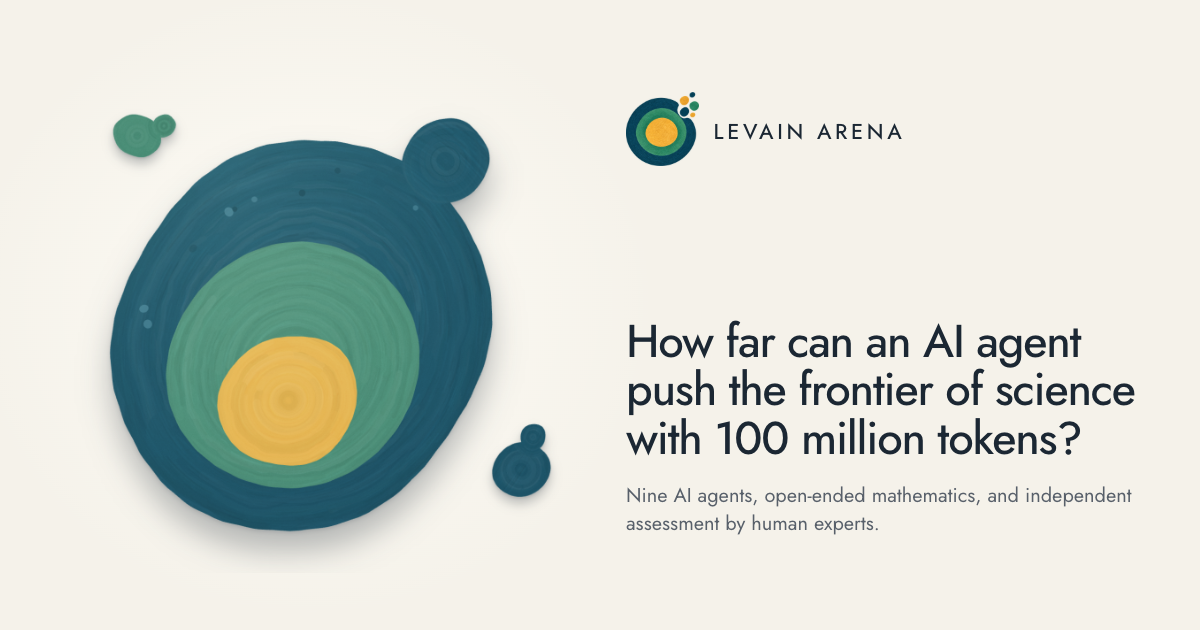
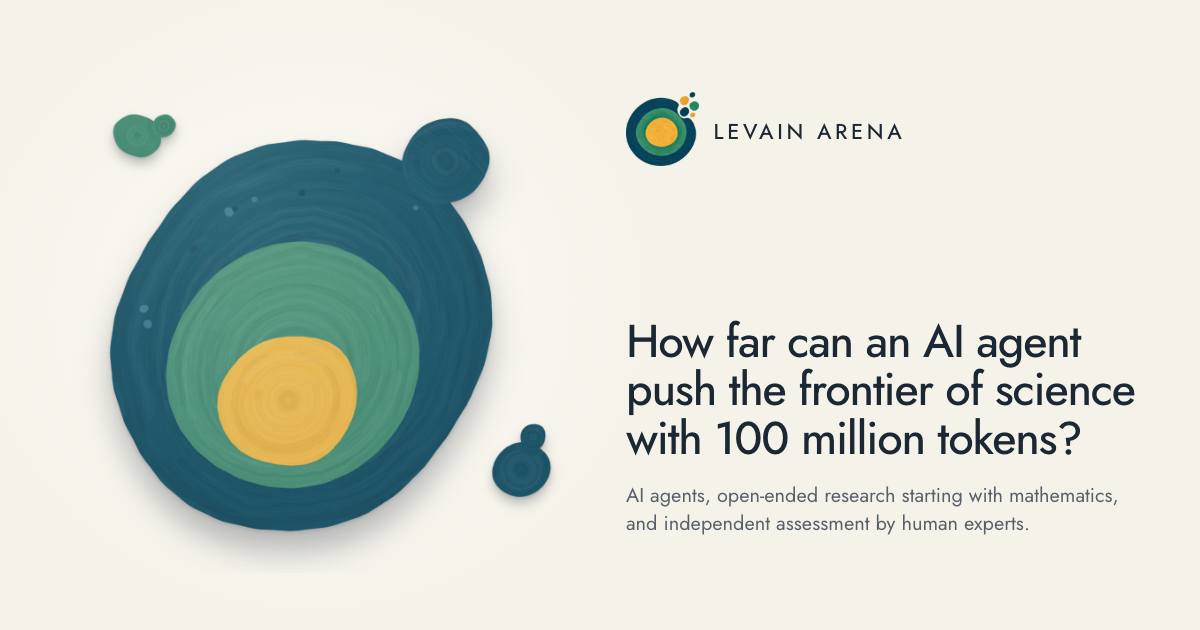
Present mathematics as the first domain of Levain Arena
The arena is framed for any field: the hero, the research question and the arena design no
longer tie it to mathematics, and a new Domains section shows mathematics as the first,
painted-in domain with the next ones drawn in pencil ("Next domain"). The mathematics domain
opens with its own heading before the agents, evaluation, paper and co-author invitation. The
number of agents is no longer stated anywhere, since it will change. New FAQ entry; the share
image and page descriptions follow.

Changed region(s): [[0.5242, 0.754, 0.9558, 0.8444]]

diff --git a/index.html b/index.html
@@ -4,7 +4,7 @@
 <meta charset="utf-8">
 <meta name="viewport" content="width=device-width, initial-scale=1">
 <title>Levain Arena</title>
-<meta name="description" content="Levain Arena gives nine AI agents the freedom to conduct open-ended mathematical research, each under the same fixed budget of 100 million tokens.">
+<meta name="description" content="Levain Arena gives AI agents the freedom to conduct open-ended research, each under the same fixed budget of 100 million tokens. The first domain is mathematics.">
 <meta name="theme-color" content="#F5F2EA">
 <link rel="icon" href="assets/favicon-32.png" sizes="32x32" type="image/png">
 <link rel="icon" href="assets/favicon-64.png" sizes="64x64" type="image/png">
@@ -12,7 +12,7 @@
 <meta property="og:type" content="website">
 <meta property="og:site_name" content="Levain Arena">
 <meta property="og:title" content="Levain Arena: How far can an AI agent push the frontier of science with 100 million tokens?">
-<meta property="og:description" content="Nine AI agents conduct open-ended mathematical research under the same budget of 100 million tokens. Each report is assessed independently by several subject-matter experts.">
+<meta property="og:description" content="AI agents conduct open-ended research under the same budget of 100 million tokens, starting with mathematics. Each report is assessed independently by several subject-matter experts.">
 <meta property="og:url" content="https://levainarena.org/">
 <meta property="og:image" content="https://levainarena.org/assets/og-image.png">
 <meta property="og:image:width" content="1200">
@@ -39,6 +39,7 @@
       <ul>
         <li><a href="#question">Research question</a></li>
         <li><a href="#design">Arena design</a></li>
+        <li><a href="#domains">Domains</a></li>
         <li><a href="#agents">Agents</a></li>
         <li><a href="#evaluation">Evaluation</a></li>
         <li><a href="#paper">Paper</a></li>
@@ -55,7 +56,7 @@
     <div class="wrap hero-grid">
       <div class="hero-copy">
         <h1 id="hero-title" class="rise">How far can an AI agent push the frontier of science with 100&nbsp;million tokens?</h1>
-        <p class="lede rise">Levain Arena gives nine AI agents the freedom to conduct open-ended mathematical research, each under the same fixed budget of 100 million tokens, all running in the <a class="harness-link" href="#harness">Levain Harness</a>.</p>
+        <p class="lede rise">Levain Arena gives AI agents the freedom to conduct open-ended research, each under the same fixed budget of 100 million tokens, all running in the <a class="harness-link" href="#harness">Levain Harness</a>. The first domain is <a class="harness-link" href="#mathematics">mathematics</a>.</p>
         <p class="support rise">We study what they discover, how they reason, where they fail, and how AI-generated research can be rigorously validated by human experts.</p>
         <div class="actions rise">
           <a class="btn" href="#join">Join as a co-author</a>
@@ -75,7 +76,7 @@
               <span class="label-name">Levain Arena</span>
               <span class="label-count"></span>
             </div>
-            <p class="label-title"><span class="hl">Nine AI agents, each with 100 million tokens</span></p>
+            <p class="label-title"><span class="hl">AI agents, each with 100 million tokens</span></p>
           </div>
           <div class="swatches" role="group" aria-label="Show one agent in the painting"></div>
           <p class="label-key">Gold is the budget of 100 million tokens. Navy is human expert validation, which encloses everything an agent produces. Both are the same for every agent; the colour between them is each agent’s own research.</p>
@@ -84,9 +85,9 @@
     </div>
     <div class="wrap">
       <ul class="metrics rise">
-        <li><strong>9</strong><span>AI agents</span></li>
         <li><strong>100M</strong><span>Tokens per agent</span></li>
-        <li><strong>Open-ended</strong><span>Mathematical research</span></li>
+        <li><strong>Open-ended</strong><span>Research</span></li>
+        <li><strong>Mathematics</strong><span>First domain</span></li>
         <li><strong>Expert-assessed</strong><span>Several experts per report</span></li>
       </ul>
     </div>
@@ -98,17 +99,17 @@
       <div class="sec-head reveal"><h2 id="question-title">Research question</h2></div>
       <div class="sec-body prose">
         <p class="reveal">Modern AI systems are usually evaluated on predefined problems with known answers. Scientific research is different. The problem itself may be unclear, the relevant direction must be chosen, and a useful result may emerge only after extended exploration.</p>
-        <p class="reveal">Levain Arena studies what happens when AI agents are given substantial freedom to conduct mathematical research while operating under an identical fixed budget.</p>
+        <p class="reveal">Levain Arena studies what happens when AI agents are given substantial freedom to conduct research, starting with mathematics, while operating under an identical fixed budget.</p>
         <div class="question reveal">
           <span class="glyph" aria-hidden="true"><i></i><i></i></span>
-          <p>When different AI agents are each given 100 million tokens for open-ended mathematical research, what kinds of correct, nontrivial, and potentially novel scientific contributions can they produce?</p>
+          <p>When different AI agents are each given 100 million tokens for open-ended research, what kinds of correct, nontrivial, and potentially novel scientific contributions can they produce?</p>
         </div>
         <p class="reveal">We also study a broader question:</p>
         <div class="question question-review reveal">
           <span class="glyph" aria-hidden="true"><i></i><i></i></span>
           <p>How should AI-generated research be validated, interpreted, and incorporated into the human scientific process?</p>
         </div>
-        <p class="principle reveal">Levain Arena does not treat an AI-generated claim as a discovery until it has undergone independent mathematical validation.</p>
+        <p class="principle reveal">Levain Arena does not treat an AI-generated claim as a discovery until it has undergone independent validation by experts in its field.</p>
       </div>
     </div>
   </section>
@@ -131,7 +132,7 @@
         </div>
         <h3 class="kicker reveal">Research process</h3>
         <ol class="steps">
-          <li style="--c:#EDD6A0;--k:0"><span class="sw" aria-hidden="true"></span><span class="n">1</span><span class="t">9 model-based agents</span></li>
+          <li style="--c:#EDD6A0;--k:0"><span class="sw" aria-hidden="true"></span><span class="n">1</span><span class="t">Model-based agents</span></li>
           <li style="--c:#E5B44F;--k:1"><span class="sw" aria-hidden="true"></span><span class="n">2</span><span class="t">100 million tokens per agent</span></li>
           <li style="--c:#9AA663;--k:2"><span class="sw" aria-hidden="true"></span><span class="n">3</span><span class="t">Open-ended exploration in the Levain Harness</span></li>
           <li style="--c:#498D76;--k:3"><span class="sw" aria-hidden="true"></span><span class="n">4</span><span class="t">Reports, proofs, code, and formal artifacts</span></li>
@@ -153,9 +154,54 @@
           </div>
           <div class="reveal">
             <h3><span class="dot" style="--c:#1D5468" aria-hidden="true"></span>Human validation</h3>
-            <p>Subject-matter experts assess each report’s mathematical soundness, originality, and scientific value; results that warrant it go on to deeper verification of correctness, prior art, and reproducibility.</p>
+            <p>Subject-matter experts assess each report’s soundness, originality, and scientific value; results that warrant it go on to deeper verification of correctness, prior art, and reproducibility.</p>
           </div>
         </div>
+      </div>
+    </div>
+  </section>
+
+  <!-- Domains: one culture, many buds. Mathematics is painted in; the domains still to come are drawn in pencil -->
+  <section class="section" id="domains" aria-labelledby="domains-title">
+    <div class="wrap split">
+      <div class="sec-head reveal"><h2 id="domains-title">Domains</h2></div>
+      <div class="sec-body">
+        <p class="intro reveal">Levain Arena starts with mathematics. The Levain Harness, the fixed budget and the evaluation design are built to carry over to other fields, and new domains will open as the arena grows.</p>
+        <ol class="domains">
+          <li class="domain reveal">
+            <span class="cell" aria-hidden="true"><span class="glyph"><i></i><i></i></span></span>
+            <span class="d-n">Domain 01</span>
+            <h3>Mathematics</h3>
+            <p>Agent runs complete; reports in expert review.</p>
+            <a class="link" href="#mathematics">The mathematics arena</a>
+          </li>
+          <li class="domain next reveal">
+            <span class="cell" aria-hidden="true"><span class="glyph unpainted"><i></i><i></i></span></span>
+            <span class="d-n">Domain 02</span>
+            <h3>Next domain</h3>
+            <p>To be announced.</p>
+          </li>
+          <li class="domain next reveal">
+            <span class="cell" aria-hidden="true"><span class="glyph unpainted"><i></i><i></i></span></span>
+            <span class="d-n">Domain 03</span>
+            <h3>Next domain</h3>
+            <p>To be announced.</p>
+          </li>
+        </ol>
+      </div>
+    </div>
+  </section>
+
+  <!-- Domain 01: the agents, the evaluation, the paper and the co-author invitation below belong to the mathematics arena -->
+  <section class="section domain-open" id="mathematics" aria-labelledby="mathematics-title">
+    <div class="wrap split">
+      <div class="sec-head reveal"><div>
+        <span class="glyph" aria-hidden="true"><i></i><i></i></span>
+        <p class="kicker">Domain 01 · Levain Arena</p>
+        <h2 id="mathematics-title">Mathematics</h2>
+      </div></div>
+      <div class="sec-body">
+        <p class="intro reveal">The first domain: open-ended mathematical research, assessed by mathematicians. Its agents, the evaluation method, the paper and the invitation to join as a co-author follow.</p>
       </div>
     </div>
   </section>
@@ -165,7 +211,7 @@
     <div class="wrap">
       <div class="sec-row reveal">
         <h2 id="agents-title">The agents</h2>
-        <p>All nine agent runs have completed.</p>
+        <p>All agent runs have completed.</p>
       </div>
       <ul class="plates">
         <li class="reveal" data-act="moon" style="--c:#6E8B5E">
@@ -209,9 +255,8 @@
       <div class="split status-block">
         <div class="sec-head reveal"><h3>Current status</h3></div>
         <dl class="status-table reveal">
-          <div><dt>Agent runs</dt><dd>9 completed</dd></div>
+          <div><dt>Agent runs</dt><dd>Completed, one report per agent</dd></div>
           <div><dt>Token budget</dt><dd>100 million tokens allocated to each agent</dd></div>
-          <div><dt>Completed reports</dt><dd>9</dd></div>
           <div><dt>Research areas</dt><dd>Combinatorics, graph theory, graph polynomials, number theory, formal mathematics, SAT, and computational mathematics</dd></div>
           <div><dt>Validation</dt><dd>Expert evaluation underway</dd></div>
           <div><dt>Manuscript</dt><dd>In preparation</dd></div>
@@ -262,7 +307,7 @@
         <p class="reveal">The manuscript will report:</p>
         <ul class="list reveal">
           <li>the controlled 100-million-token research protocol;</li>
-          <li>the behavior and outputs of the nine named AI agents;</li>
+          <li>the behavior and outputs of the named AI agents;</li>
           <li>the mathematical claims produced across the runs;</li>
           <li>independent expert evaluations of those claims;</li>
           <li>recurring strengths, failure modes, and research strategies; and</li>
@@ -350,7 +395,8 @@
       <div class="sec-body">
         <dl class="faq">
           <div class="reveal"><dt>Why 100 million tokens?</dt><dd>The fixed token budget provides a common resource constraint while remaining large enough to support extended exploration, revision, computation, and proof development.</dd></div>
-          <div class="reveal"><dt>Are the agents solving predefined problems?</dt><dd>No. Agents receive substantial freedom to select directions and pursue mathematical questions within the arena’s research environment.</dd></div>
+          <div class="reveal"><dt>Is Levain Arena only about mathematics?</dt><dd>No. Mathematics is the first domain. The Levain Harness, the fixed budget and the evaluation design are built to carry over to other fields, which will open as the arena grows.</dd></div>
+          <div class="reveal"><dt>Are the agents solving predefined problems?</dt><dd>No. Agents receive substantial freedom to select directions and pursue research questions within the arena’s research environment.</dd></div>
           <div class="reveal"><dt>Are the results already verified?</dt><dd>Expert evaluation is currently underway. No AI-generated claim is treated as verified before independent review.</dd></div>
           <div class="reveal"><dt>Are the reports public?</dt><dd>Reports and supporting artifacts will be released according to the project’s publication and validation schedule.</dd></div>
           <div class="reveal"><dt>How can mathematicians participate?</dt><dd>Mathematicians may express interest in joining the paper as subject-matter co-authors through the <a href="#join">website contact form</a>.</dd></div>
@@ -373,6 +419,7 @@
       <ul>
         <li><a href="#question">Research</a></li>
         <li><a href="#design">Arena design</a></li>
+        <li><a href="#domains">Domains</a></li>
         <li><a href="#agents">Agents</a></li>
         <li><a href="#evaluation">Evaluation</a></li>
         <li><a href="#paper">Paper</a></li>

diff --git a/assets/style.css b/assets/style.css
@@ -452,6 +452,31 @@ sub { font-size: .7em; line-height: 0; vertical-align: -.2em; }
 .foot-nav a:hover { color: var(--ink); }
 
 /* ---------- smaller screens ---------- */
+/* ---------- domains: one culture, many buds ----------
+   Mathematics is painted in, the domains still to come are pencil outlines, each smaller, like buds off the culture;
+   opening a domain means painting one in. The mathematics section opens with the same painted cell. */
+.domains { margin-top: 52px; display: grid; grid-template-columns: repeat(3, minmax(0, 1fr)); gap: 32px; border-top: 1.5px solid var(--ink); }
+.domain { padding-top: 26px; display: flex; flex-direction: column; align-items: flex-start; }
+.domain .cell { display: flex; align-items: center; height: 84px; margin-bottom: 16px; }
+.domain .glyph { width: 72px; height: 72px; }
+.domain + .domain .glyph { width: 54px; height: 54px; transform: rotate(8deg); }
+.domain + .domain + .domain .glyph { width: 40px; height: 40px; transform: rotate(-30deg); }
+.domain .glyph.unpainted, .domain .glyph.unpainted i { box-shadow: inset 0 0 0 1.25px var(--pencil); }
+.d-n { font-size: 13px; letter-spacing: .06em; color: var(--muted); }
+.domain h3 { margin-top: 6px; font-size: 24px; font-weight: 450; letter-spacing: -.01em; }
+.domain.next h3 { color: var(--muted); }
+.domain p { margin-top: 8px; font-size: 16px; line-height: 1.55; color: var(--muted); }
+.domain .link { margin-top: 16px; font-size: 16px; }
+.domain-open { padding-bottom: clamp(56px, 6vw, 96px); }
+.domain-open .glyph { display: block; width: 56px; height: 56px; margin-bottom: 28px; }
+.domain-open .kicker { margin-bottom: 12px; }
+
+@media (max-width: 960px) {
+  .domains { grid-template-columns: minmax(0, 1fr); gap: 0; }
+  .domain { padding: 22px 0 26px; border-bottom: 1px solid var(--rule); }
+  .domain .cell { height: 64px; }
+}
+
 @media (max-width: 1100px) {
   .plates { grid-template-columns: minmax(0, 1fr); }
   .partners { grid-template-columns: repeat(3, minmax(0, 1fr)); }

diff --git a/assets/painting.js b/assets/painting.js
@@ -22,7 +22,7 @@
   const still = pinned !== null || matchMedia('(prefers-reduced-motion: reduce)').matches;
 
   // --- frames: the arena first, then every agent in the list below
-  const frames = [{name: 'Levain Arena', title: 'Nine AI agents, each with 100 million tokens', color: ARENA, logo: 'assets/logo/mark.png', pending: false}];
+  const frames = [{name: 'Levain Arena', title: 'AI agents, each with 100 million tokens', color: ARENA, logo: 'assets/logo/mark.png', pending: false}];
   document.querySelectorAll('#agents .plates > li').forEach(li => {
     const img = li.querySelector('.plate .mlogo');
     const pending = li.classList.contains('pending');

diff --git a/README.md b/README.md
@@ -1,13 +1,17 @@
 # Levain Arena website
 
-The public page of Levain Arena: nine AI agents, each with 100 million tokens, doing open-ended mathematical research
-in the Levain Harness, with human experts reviewing what they produce. Published at https://levainarena.org/
+The public page of Levain Arena: AI agents, each with 100 million tokens, doing open-ended research in the Levain
+Harness, with human experts assessing what they produce. Mathematics is the first domain; the page does not state how
+many agents there are, since that will change. Published at https://levainarena.org/
 by GitHub Pages from the default branch of this repository (`CNAME` holds the domain; DNS is on Cloudflare). One static page, no build step; `.nojekyll` makes Pages
 serve the files as they are. To preview locally, run `python3 -m http.server` here and open http://localhost:8000.
 
 ## Files
 
-- `index.html`: every section of the page.
+- `index.html`: every section of the page. The upper sections (research question, arena design, Levain Harness) hold
+  for every domain; **Domains** shows mathematics as a painted yeast cell and the domains still to come as pencil
+  outlines ("Next domain"), and opening a domain means painting one in; the mathematics domain then opens with its own
+  heading (`#mathematics`), and the agents, evaluation, paper and co-author invitation below it belong to it.
 - `assets/style.css`: colour and type tokens at the top. The colours come from the Levain Arena logo (navy #1D5468,
   green #498D76, gold #E5B44F); shapes on the page are yeast cells, since levain is a culture of wild yeast.
 - `assets/painting.js`: the hero painting, a yeast culture. A budding mother cell (navy wall, a vacuole, a gold nucleus,
